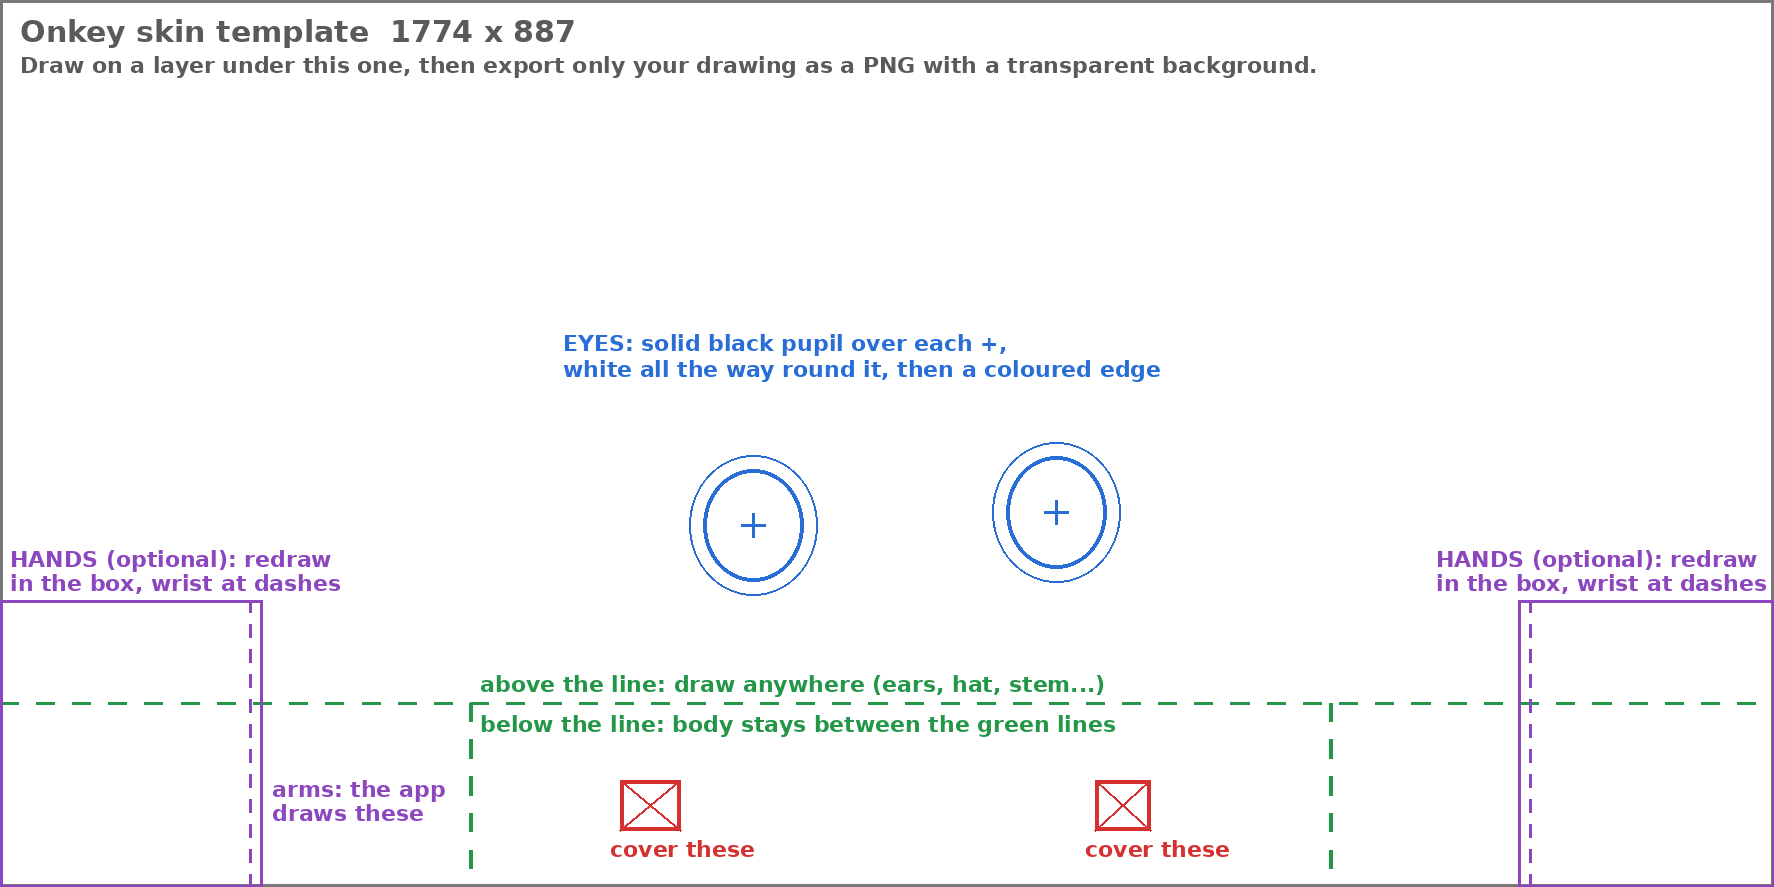
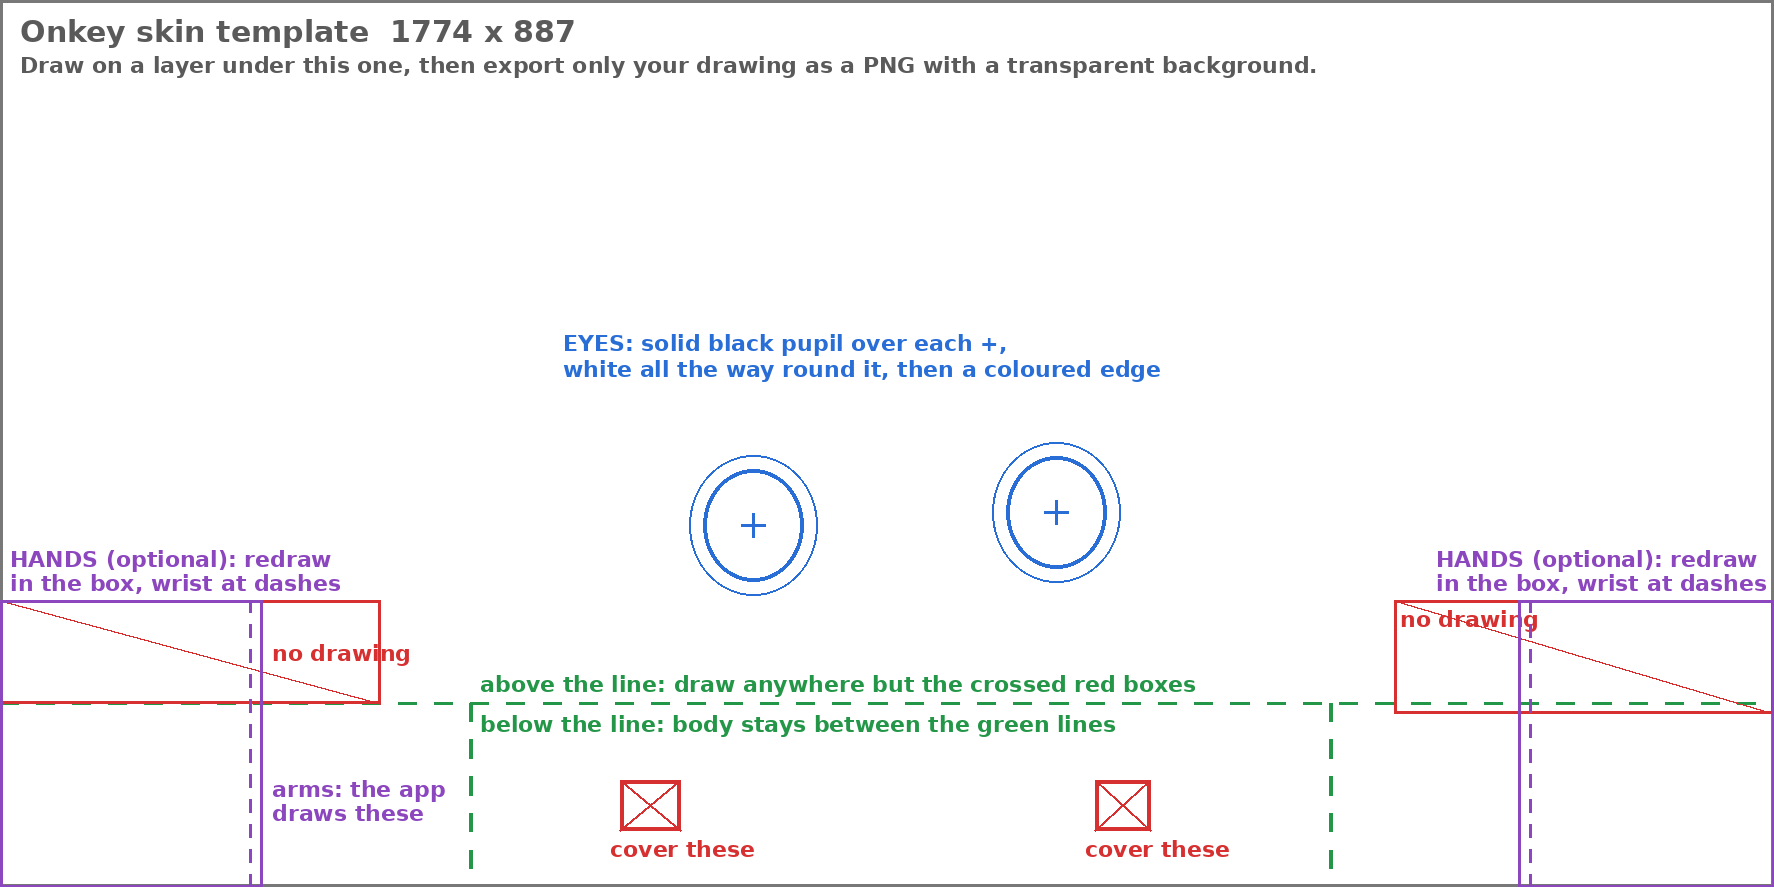
Skin template: mark the ear-level no-draw strips; check-skin grows the white ring by position
Claude-Session: https://claude.ai/code/session_01D2fWemyZTicnRqsQVNaPnf

diff --git a/Assets/Skins/check-skin.py b/Assets/Skins/check-skin.py
@@ -10,7 +10,7 @@ from PIL import Image
 EYES = [(753, 525), (1056, 512)]
 
 
-def flood(px, w, h, seed, radius, accept):
+def flood(px, w, h, seed, radius, accept, by_xy=False):
     seen, stack, found = set(), [seed], []
     while stack:
         x, y = stack.pop()
@@ -19,7 +19,7 @@ def flood(px, w, h, seed, radius, accept):
         if (x, y) in seen:
             continue
         seen.add((x, y))
-        if not accept(px[x, y]):
+        if not accept((x, y) if by_xy else px[x, y]):
             continue
         found.append((x, y))
         stack += [(x + 1, y), (x - 1, y), (x, y + 1), (x, y - 1)]
@@ -48,11 +48,11 @@ def main():
         # With the pupil painted white, the white must be one patch bounded by a coloured or dark edge.
         dark = set(pupil)
 
-        def light(p, xy=None):
+        def light(p):
             return p[3] > 100 and max(p[:3]) >= 60 and max(p[:3]) - min(p[:3]) < 60
 
-        white = flood(px, w, h, seed, 85, lambda p: True)
-        white = [xy for xy in white if xy in dark or light(px[xy])]
+        # Grown out from the pupil, as the renderers do.
+        white = flood(px, w, h, seed, 85, lambda xy: xy in dark or light(px[xy]), by_xy=True)
         if len(white) - len(pupil) < 300:
             print(f"FAIL {name} eye: not enough white round the pupil"); ok = False
     for x0, x1 in ((620, 680), (1095, 1150)):

diff --git a/Assets/Skins/make-template.py b/Assets/Skins/make-template.py
@@ -64,10 +64,16 @@ def guides():
 
     # Body limits below the ears.
     dashed(d, (0, EAR_LINE), (W, EAR_LINE), green, 3)
+    # The arm cuts also remove these strips beside his ears.
+    for box in ((0, 600, 380, EAR_LINE), (1394, 600, W - 1, 713)):
+        d.rectangle(box, outline=red, width=3)
+        d.line([box[:2], box[2:]], fill=red, width=2)
+    d.text((272, 640), "no drawing", font=small, fill=red)
+    d.text((1400, 606), "no drawing", font=small, fill=red)
     for x in (BODY_LEFT, BODY_RIGHT):
         dashed(d, (x, EAR_LINE), (x, H), green, 4)
     d.text((BODY_LEFT + 10, EAR_LINE + 8), "below the line: body stays between the green lines", font=small, fill=green)
-    d.text((BODY_LEFT + 10, EAR_LINE - 32), "above the line: draw anywhere (ears, hat, stem...)", font=small, fill=green)
+    d.text((BODY_LEFT + 10, EAR_LINE - 32), "above the line: draw anywhere but the crossed red boxes", font=small, fill=green)
 
     # Arm roots his body must cover.
     for box in ROOTS:
